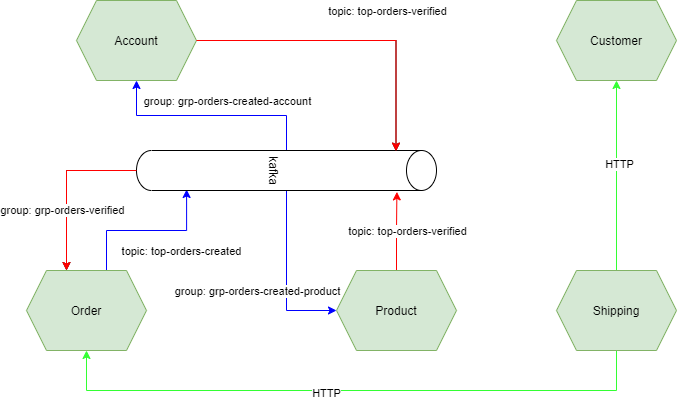
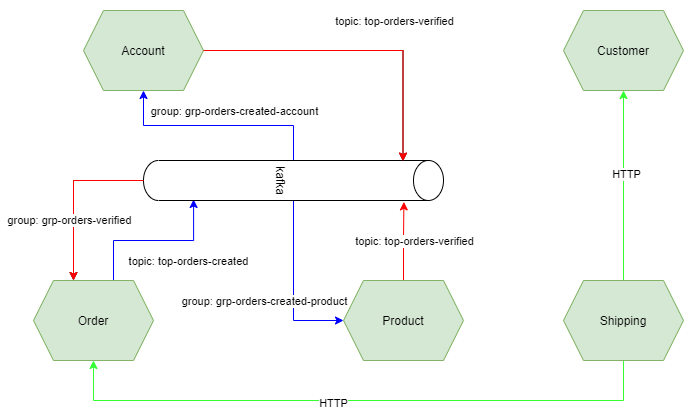
#Adjust readme & diagram

diff --git a/README.md b/README.md
@@ -1,8 +1,8 @@
 # Sample for Kafka Messaging in Microservices
-This is for a sample using Kafka as a Messaging system to organize the communication among the event-based microservices
+Kafka Messaging system to organize the communication among the event-based microservices
 
 # Architecture diagram
-Below the diagram that shows how the microservices communicate with each others.
+Below the diagram that shows how the microservices communicate with each others
 
 ![B2C architecture diagram using kafka](b2c_architecture.png)
 
@@ -18,3 +18,63 @@ Locally, we can start those applications
 - localhost:8089 => customer
 
 # Tests
+## Create a Customer
+```
+curl --location --request POST 'localhost:8089/customers' \
+--header 'Content-Type: application/json' \
+--data-raw '{
+    "name": "Hai"
+}'
+```
+## Create an Account
+```
+curl --location --request POST 'localhost:8085/accounts' \
+--header 'Content-Type: application/json' \
+--data-raw '{
+    "number": "Hai account",
+    "balance": "50.7",
+    "customerId": "<6048943b18e30716334e84fc>"
+}'
+```
+## Create a Product
+```
+curl --location --request POST 'localhost:8087/products' \
+--header 'Content-Type: application/json' \
+--data-raw '{
+    "name": "Red Hat",
+    "price": "2.4",
+    "count": 1
+}'
+```
+## Create an Order
+```
+curl --location --request POST 'localhost:8086/orders' \
+--header 'Content-Type: application/json' \
+--data-raw '{
+    "customerId": "<6048943b18e30716334e84fc>",
+    "accountId": "<60489709948eb87bf1f10e9d>",
+    "productIds": [
+        "<6043e3d2d3af3842817413e6>"
+    ],
+    "price": 2.0
+}'
+```
+## Create a Shipping
+```
+curl --location --request POST 'localhost:8088/shippings' \
+--header 'Content-Type: application/json' \
+--data-raw '{
+    "customerId": "<6048943b18e30716334e84fc>",
+    "orderIds": [
+        "<6043e45b64df61448783836d>",
+        "<60488de96f251d58d7f96e23>"
+    ],
+    "messages": [
+        {
+            "notes": "Go to Etown3 and call, urgent"
+        }
+    ]
+}'
+```
+
+
